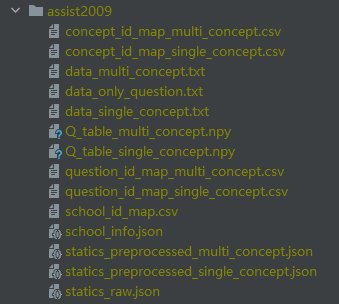
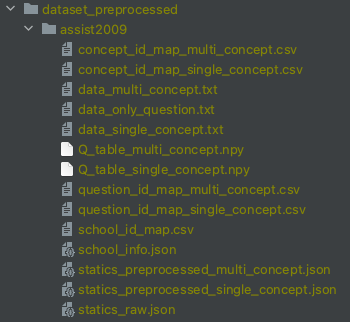
update

Changed region(s): [[0.0, 0.0, 0.9735, 1.0]]

diff --git a/DOC.md b/DOC.md
@@ -6,28 +6,30 @@
 | ------------------- | ------------- | -------------- | ------------- |
 | 单知识点数据集      | no            | yes            | no            |
 | 多知识点数据集      | yes           | yes            | yes           |
-| 无知识点/习题数据集 | no            | no             | yes           |
-| 时间信息            | no            | yes            | yes           |
+| 无知识点/习题数据集 | no            | no             | ye            |
 
 - `multi_concept` 对于多知识点数据集，将一道多知识点习题拆成多个单知识习题
 - `single_concept` 对于单知识点数据集，即习题序列和知识点序列一一对应；对于多知识点数据集，将多知识点组合视为新知识点，则数据集转换为单知识点数据集
 - `only_question` 只有习题序列，对于无知识点或者无习题数据集，都将其视为习题序列
+- 为什么要处理为多种数据格式？
+  - 有些方法默认习题和知识点是一一对应的，如`AKT`、`DIMKT`，这些方法需要处理为`multi_concept`或者`single_concept`
+  - 有些方法对于多知识点习题，是将其多个对应知识点的embedding取平均，然后和习题embedding一起送入encoder，如`IEKT`、`LPKT`、`AKT`（论文`table 6`汇报的结果），这些方法就需要处理为`only_question`数据格式
+
 
 ## 2、数据集信息
 
 - 单知识点数据集：`assist2012` `assist2017` `edi2020` `SLP` `slepemapy`
 
   - `edi2020`是层级知识点，且最低一级都是单知识点。只使用最细粒度的知识点，所以算单知识点数据集
+  - 单知识点数据只会生成预处理数据：`data_single_concept.txt`
 
 - 多知识点数据集：`assist2009` `assist2009-new` `ednet-kt1` `xes3g5m`
 
-  - `assist2009-new`是最新版本（从数据源网站可以获取）
+  - `assist2009-new`是`assist2009`的最新版本（从数据源网站可以获取）
 
-  - 对于多知识点数据集，如果知识点不是层级的，则会有两种预处理，分别产生`multi_concept`和`single_concept`；多知识点数据集的`only_question`是对应`multi_concept`的，只是没有拆分习题，因为不用知识点序列
+  - 对于多知识点数据集，会生成3种预处理数据：`data_multi_concept.txt`、`data_single_concept.txt`和`data_only_question.txt`
 
-  - `xes3g5m`的知识点是层级的，但是最细粒度的知识点是多个的，所以当成多知识点数据集处理
-
-  - 下面是`xes3g5m`的一个例子
+  - 注意：`xes3g5m`的知识点是层级的，但是最细粒度的知识点是多个的，所以当成多知识点数据集处理。`xes3g5m`的一个例子
 
     ```
     习题1035
@@ -50,14 +52,15 @@
       '运算求解'
     ]
     ```
-
+  
 - 无知识点/习题数据集：`assist2015` `statics2011`
+
+  - 无知识点/习题数据只会生成预处理数据：`data_only_question.txt`
+
 
 ## 3、初始化项目
 
-- 修改`example/settings.json`中的配置，`LIB_PATH`是所有需要文件的根目录，`FILE_MANAGER_ROOT`是`lib`所在目录，然后运行`example/set_up.py`会生成所需要的目录
-
-- 生成的目录结构如下所示，原始数据放到 ``LIB_PATH/lab/dataset_raw`` 下
+- 按照`README.md`中`Quick-Start`操作，生成的目录结构如下，原始数据放到 `lab/dataset_raw` 下
 
   <div align=center><img src="./resources/lab_dir.png" /></div>
 
@@ -65,44 +68,106 @@
 
   <div align=center><img src="./resources/ednet-kt1_raw_dir.png" /></div>
 
-- 运行 ``example/preprocess``处理对应的数据集（即`dataset_preprocessed`下的目录名），生成的数据在 ``数据存放地址/lab/dataset_preprocessed``
+- 运行 `example/preprocess`处理指定数据集（即`dataset_preprocessed`下的目录名），生成的数据在 `lab/dataset_preprocessed`
 
 ## 4、预处理生成的文件
 
-- 以3个数据集为例
+以`assist2009`（多知识点数据集）为例，生成的预处理文件如下
 
-- `assist2009`：多知识点数据集
+<div align=center><img src="./resources/assist2009_preprocessed_dir.png" /></div>
 
-  <div align=center><img src="./resources/assist2009_preprocessed_dir.png" /></div>
+- `concpet_id_map_[data_type].csv` ：知识点id映射文件，包括以下字段
 
-  - `concpet_id_map_[data_type].csv` 对应数据类型的知识点id映射文件，包括以下字段
+  - `concept_id` 原始文件中知识点的id，为整数。注意：如果是原始文件中知识点id是数字，就和原始文件一样；如果不是数字，就先映射为整数再做预处理
+  - `concept_mapped_id` 处理后的数据中知识点的id，从0开始
 
-    - `concept_id` 原始文件中知识点的id，为整数。注意：如果是原始文件中知识点id是数字，就和原始文件一样；如果不是数字，就先映射为整数再做预处理
-    - `concept_mapped_id` 处理后的数据中知识点的id，从0开始
+- `question_id_map_[data_type].csv` ：习题id映射文件，同`concpet_id_map_[data_type].csv` 
 
-  - `data_[data_type].txt` 对应数据类型的处理完成的数据。第一行数据是所有信息，分成两类，用`;`分隔：前面的是学生/序列的属性，如学生id，序列长度，学生学校id；后面的是序列的id，如`question_seq`表示学生做题的习题序列，`concept_seq`表示学生做题对应的知识点序列，`correct_seq`表示学生做题的结果序列（0或1表示错误或正确），`time_seq`表示学生做题的时间戳序列，`use_time_seq`表示学生做题所用时间序列。具体例子如下
+- `statics_preprocessed_[data_type].json`：不同数据格式的预处理数据对应的统计信息
 
-    - `multi_concept` `question_seq`中出现-1表示当前知识点和前一知识点是同一习题
+  - `assist2009`的`statics_preprocessed_multi_concept.json`如下
 
-    <div align=center><img src="./resources/example_multi_concept.png" /></div>
+    ```json
+    {
+      "num_interaction": 338001,
+      "num_user": 4163,
+      "num_concept": 123,
+      "num_question": 17751,
+      "num_school": 75,
+      "num_max_concept": 4  // 每道题对应知识点数目最大值，即一道题对应最多4个知识点
+    }
+    ```
 
-    - `single_concept` 因为都是单知识点，所以`question_seq`中不会出现-1
+  - `assist2009`的`statics_preprocessed_single_concept.json`如下
 
-    <div align=center><img src="resources/example_single_concept.png" /></div>
+    ```json
+    {
+      "num_interaction": 283105,
+      "num_user": 4163,
+      "num_concept": 149,  // 将多知识点组合视为新知识点，所以知识点数量变大
+      "num_question": 17751,
+      "num_school": 75
+    }
+    ```
 
-    - `only_question` 只有习题序列，所以序列长度比`multi_concept`短
+- `data_[data_type].txt` 对应数据类型的预处理数据
 
-    <div align=center><img src="./resources/example_only_question.png" /></div>
+  - 第一行数据是所有信息，分成两类，用`;`分隔
+  - 前面的是学生/序列的属性，如学生id，序列长度，学生学校id
+  - 后面的是序列的id，如`question_seq`表示学生做题的习题序列，`concept_seq`表示学生做题对应的知识点序列，`correct_seq`表示学生做题的结果序列（0或1表示错误或正确），`time_seq`表示学生做题的时间戳序列，`use_time_seq`表示学生做题所用时间序列
+  - `multi_concept` 其中`question_seq`里的-1表示当前知识点和前一知识点对应同一习题
+
+  <div align=center><img src="./resources/assist2009_multi_concept.png" /></div>
+
+  - `single_concept` 因为都是单知识点，所以`question_seq`中不会出现-1
+
+  <div align=center><img src="resources/assist2009_single_concept.png" /></div>
+
+  - `only_question` 只有习题序列，所以序列长度比`multi_concept`短
+
+  <div align=center><img src="./resources/assist2009_only_question.png" /></div>
+
+
+- `Q_table_[data_type].npy`
+  - Q*K的矩阵，其中Q是习题数量，K是知识点数量，`[q,k]==1`表示习题q对应知识点k
+  - `multi_concept`和`only_question`对应的Q table为`Q_table_multi_concept.npy`，如`assist2009`中`Q=17751, K=123`
+  - `single_concept`对应的Q table为`Q_table_single_concept.npy`，如`assist2009`中`Q=17751, K=149`
 
 ## 5、数据处理
 
-- 数据处理分为两步
-  - 数据预处理：包括丢弃信息缺失的交互（如习题、知识点缺少的交互），习题和知识点id的重映射，时间信息（做题时间、做题用时）等
-  - 数据集划分处理：包括固定序列的长度、丢弃部分习题和知识点（如练习次数少于30次的习题）、数据集的划分（训练集、验证集、测试集）等
+- 数据处理分为两部分（或者三部分）
+  - 数据预处理：对原始数据的处理。包括丢弃信息缺失的交互（如习题、知识点缺少的交互），习题和知识点id的重映射，时间信息（做题时间、做题用时）等
+  - 数据集划分处理：对预处理数据的处理，具体来说每篇论文的实验设置不一样，这一部分也就不一样。包括固定序列的长度、丢弃部分习题和知识点（如练习次数少于30次的习题）、数据集的划分（训练集、验证集、测试集）等
+  - 具体的实验设置：有些论文的实验设置比较特殊，需要单独处理。如`DIMKT`论文中会过滤掉出现次数小于30次的知识点和习题、`AKT`中对`assist2009`数据集的预处理是只保留有`skill_name`的知识点
 - 整个数据处理的pipline如下
 
-## 6、提供的数据处理
+## 6、提供的实验设置
 
-- pykt
-- cl4kt
-- dimkt
+- 模版
+  - 通用参数
+    - `dataset_name` 数据集名字，即`lab/dataset_preprocessed`下的文件名
+    - `setting_name` 在`lab/settings`下生成对应的文件夹，存放指定实验设置的数据
+    - `data_type` 见`Section 1`
+    - `max_seq_len` 固定序列最大长度，超过最大长度的则截断为多个子序列；不足最大长度的补0
+    - `min_seq_len` 最小序列长度，首先从预处理数据中过滤掉低于最小序列长度的数据；截断超过最大序列长度的数据后再过滤一次
+    - `n_fold` n折交叉验证
+    - `test_radio` 测试集比例
+    - `valid_radio` 验证集比例
+    - `from_start` 是否从序列开始截断
+  - `example/prepare_dataset/truncate2multi_seq_five_fold_1.py`
+    - 超过最大长度的序列截断为多条序列
+    - 首先随机划分训练集和测试集，然后对训练集使用n折划分，即n折训练集、n折验证集和一个测试集
+  - `example/prepare_dataset/truncate2multi_seq_five_fold_2.py`
+    - 超过最大长度的序列截断为多条序列
+    - 首先对数据集集使用n折划分为训练集和测试集，然后对每折训练集随机划分验证集，即n折训练集、n折验证集、n折测试集
+  - `truncate2one_seq_five_fold_1.py`
+    - 超过最大长度的序列截断为多条序列，但是只保留最前面/最后面（由参数`from_start`控制）的一条子序列
+    - 首先随机划分训练集和测试集，然后对训练集使用n折划分，即n折训练集、n折验证集和一个测试集
+  - `truncate2one_seq_five_fold_2.py`
+    - 超过最大长度的序列截断为多条序列，但是只保留最前面/最后面（由参数`from_start`控制）的一条子序列
+    - 首先对数据集集使用n折划分为训练集和测试集，然后对每折训练集随机划分验证集，即n折训练集、n折验证集、n折测试集
+- PYKT
+- CL4KT
+- DIMKT
+- AKT
+- LPKT

diff --git a/README.md b/README.md
@@ -28,7 +28,7 @@
      python example/set_up.py
      ```
 
-2. Place the original files of the dataset in the corresponding directory (Please refer to [Document](DOC.md) for details)
+2. Place the original files of the dataset in the corresponding directory (Please refer to [Document](DOC.md) (Section 3) for details)
 
 3. Data Preprocessing: Run ` example/reprocess.py`, for example
 
